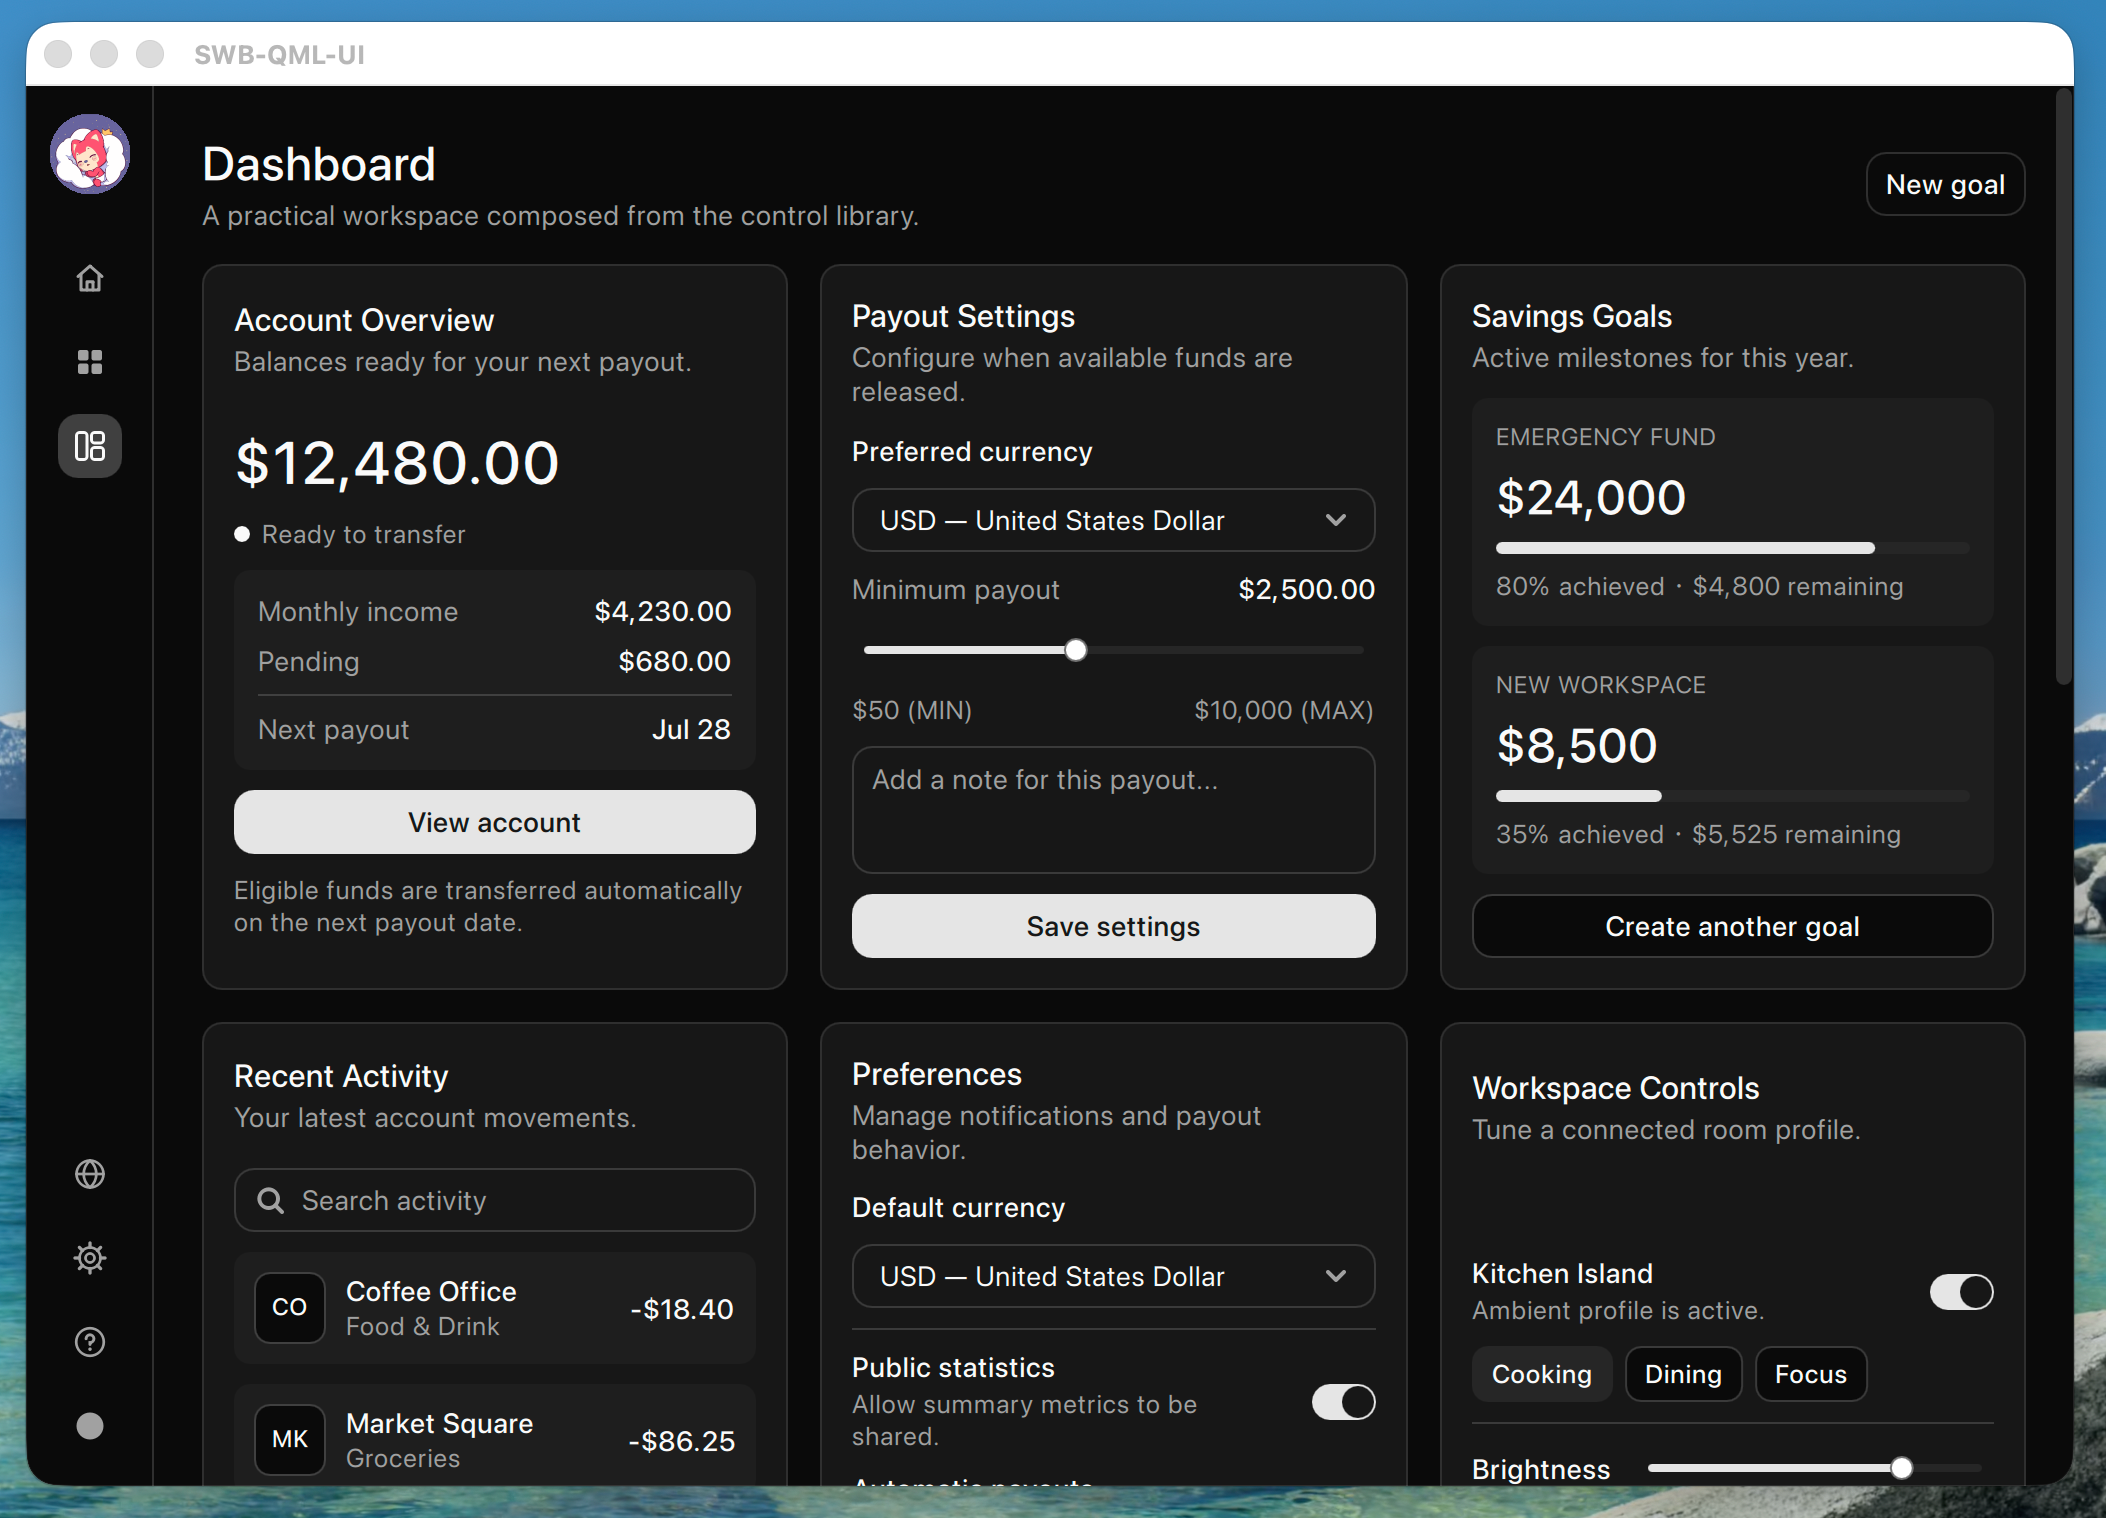
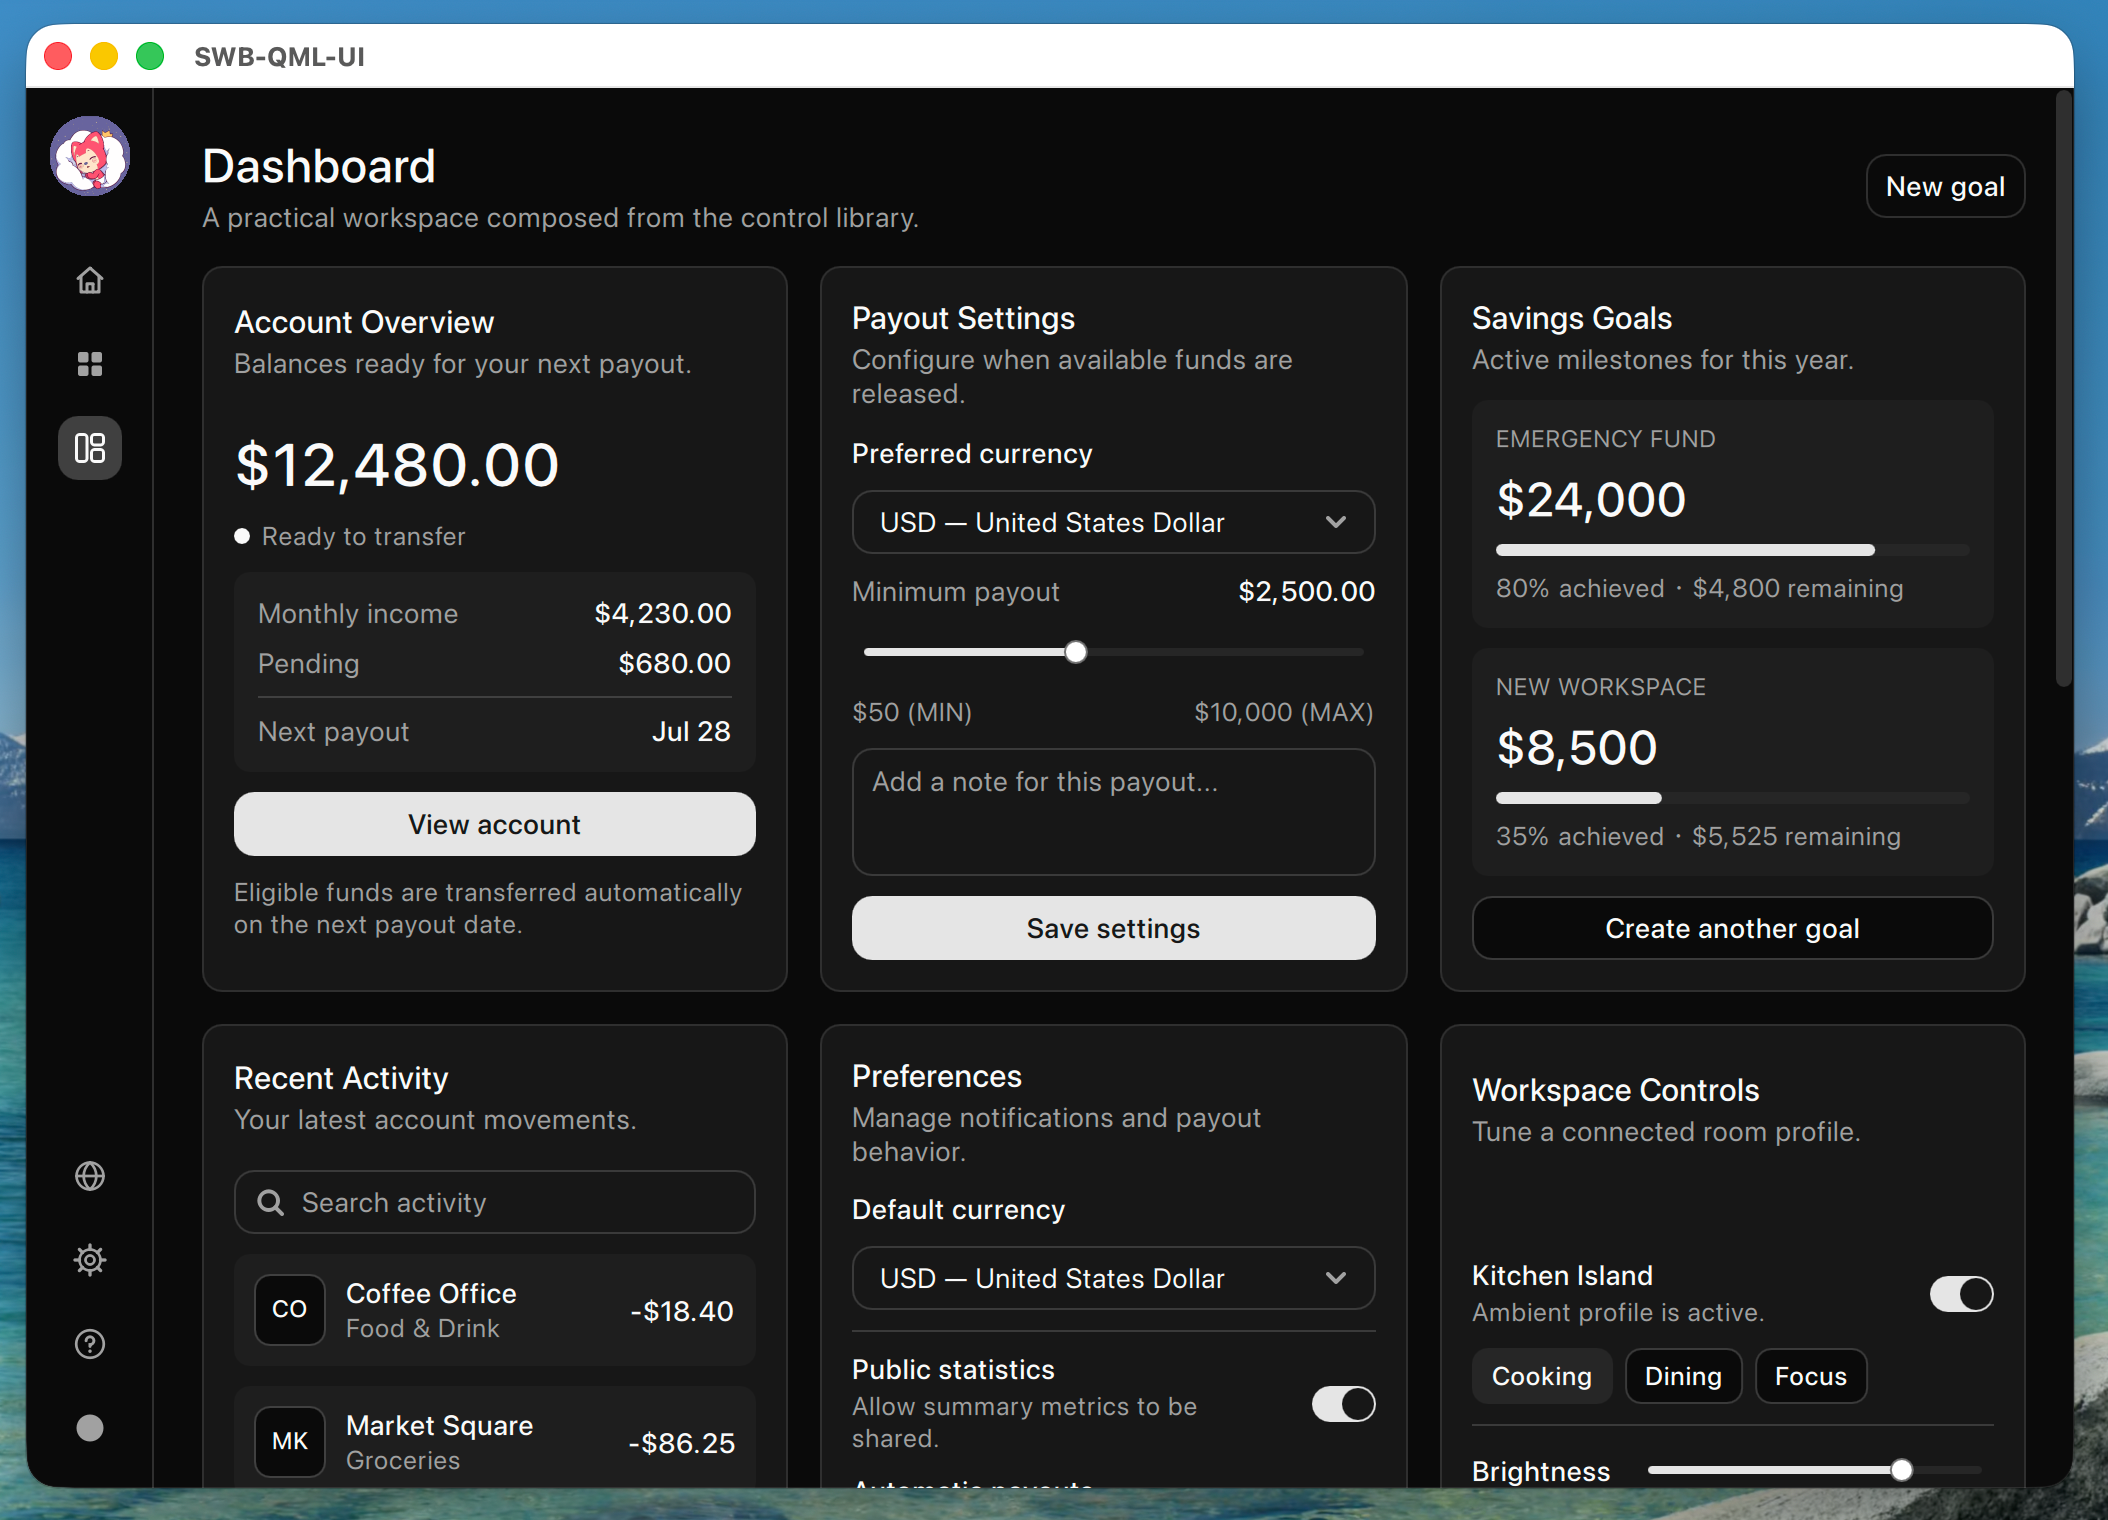
update assets and readme

diff --git a/README.md b/README.md
@@ -26,9 +26,13 @@ Out of respect for the original work: part of the controls in this library are i
 
 ![Component gallery](assets/2.png)
 
-| Light | Dark |
-|---|---|
-| ![Dashboard light](assets/3.png) | ![Dashboard dark](assets/4.png) |
+*Dashboard (light)*
+
+![Dashboard light](assets/3.png)
+
+*Dashboard (dark)*
+
+![Dashboard dark](assets/4.png)
 
 ## Requirements
 

diff --git a/docx/README-Chinese.md b/docx/README-Chinese.md
@@ -26,9 +26,13 @@
 
 ![控件画廊](../assets/2.png)
 
-| 浅色 | 深色 |
-|---|---|
-| ![仪表盘浅色](../assets/3.png) | ![仪表盘深色](../assets/4.png) |
+*仪表盘（浅色）*
+
+![仪表盘浅色](../assets/3.png)
+
+*仪表盘（深色）*
+
+![仪表盘深色](../assets/4.png)
 
 ## 环境要求
 